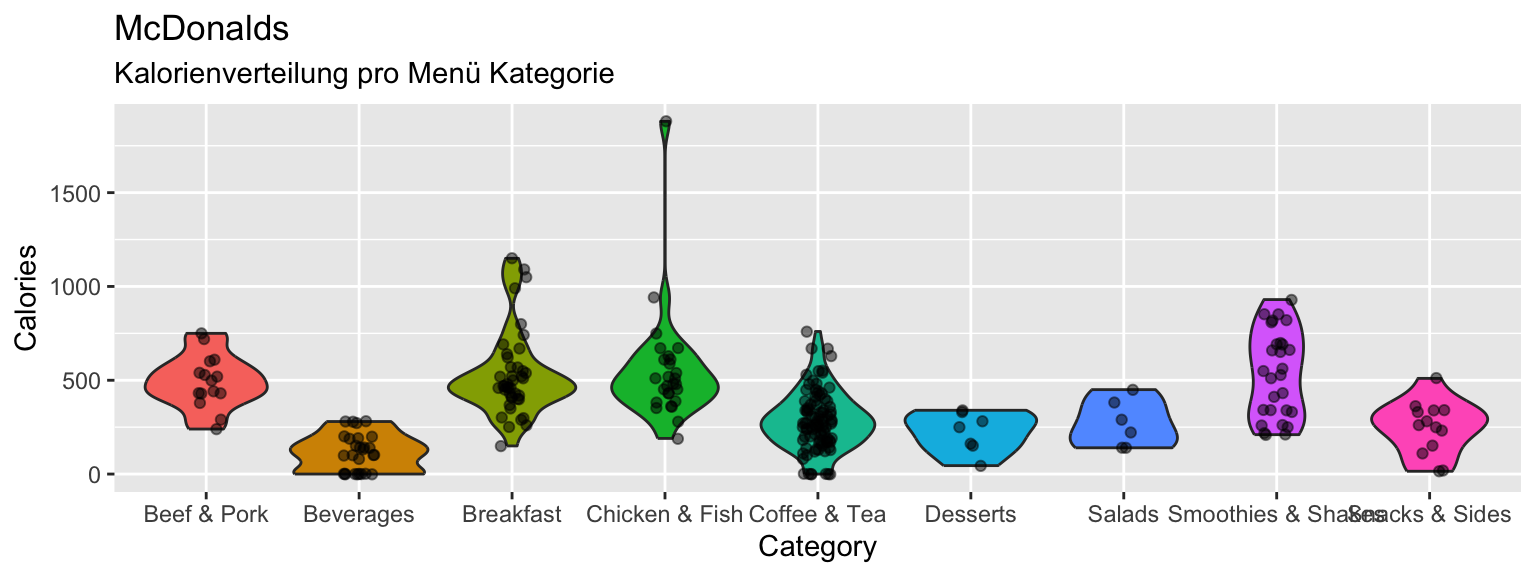
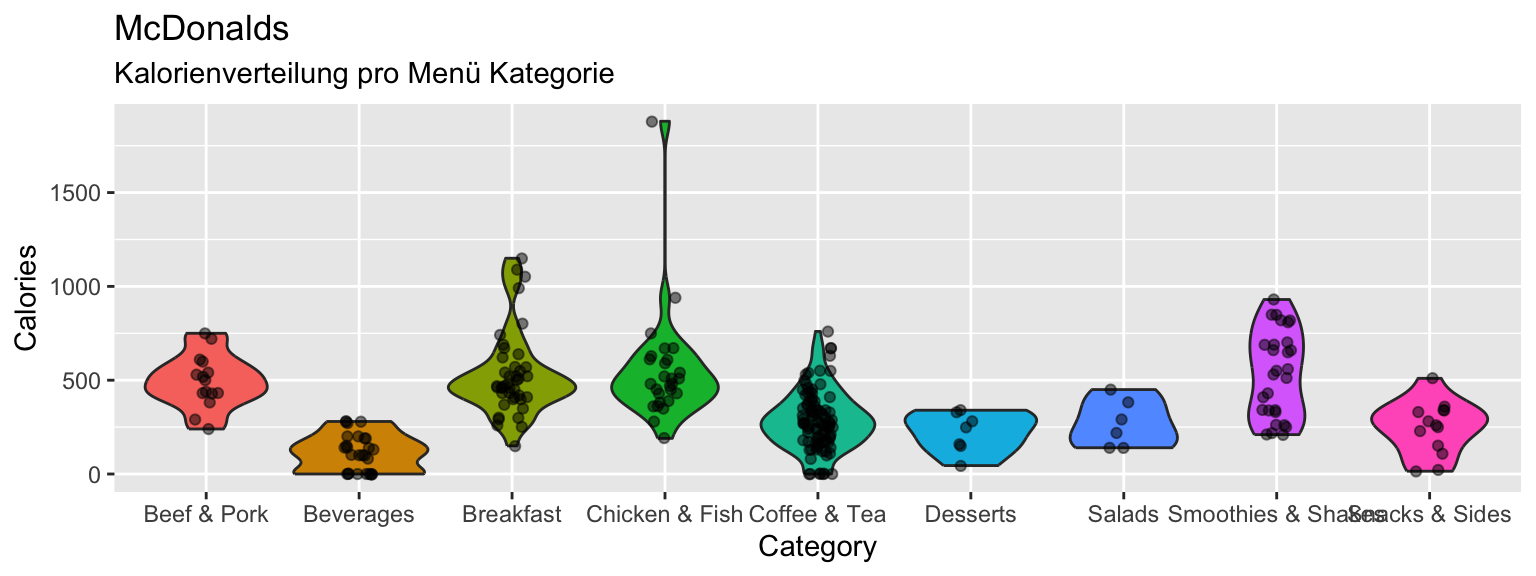
show solutions

diff --git a/_sessions/Plotting/Plotting_practical.html b/_sessions/Plotting/Plotting_practical.html
@@ -231,9 +231,13 @@ Ordner.</p></li>
 <div id="b---lade-den-datensatz" class="section level3">
 <h3>B - Lade den Datensatz</h3>
 <ol style="list-style-type: decimal">
-<li><p>Verwende die <code>read_csv()</code> Funktion um den Datensatz
+<li>Verwende die <code>read_csv()</code> Funktion um den Datensatz
 <code>mcdonalds</code> als Objekt <code>mcdonalds</code> einzulesen.
-Denke an den Trick mit den Anführungszeichen.</p></li>
+Denke an den Trick mit den Anführungszeichen.</li>
+</ol>
+<pre class="r"><code># Lese mcdonalds
+mcdonalds &lt;- read_csv(&#39;1_Data/mcdonalds.csv&#39;)</code></pre>
+<ol start="2" style="list-style-type: decimal">
 <li><p>Printe den Datensatz. Wurden alle Variablentypen korrekt
 identifiziert?</p></li>
 <li><p>Verwende <code>summary()</code> um einen weiteren Überblick über
@@ -250,6 +254,8 @@ zusammenbauen.</p>
 <code>mcdonalds</code> Datensatz zu starten.</li>
 </ol>
 <pre class="r"><code>ggplot(data = mcdonalds)</code></pre>
+<pre class="r"><code>ggplot(mcdonalds)</code></pre>
+<p><img src="Plotting_practical_files/figure-html/unnamed-chunk-5-1.png" width="672" style="display: block; margin: auto;" /></p>
 <ol start="2" style="list-style-type: decimal">
 <li>Verwende nun das <code>mapping</code>-Argument und die
 <code>aes()</code>-Helferfunltion um <code>Calories</code> der x-Achse
@@ -257,15 +263,24 @@ und <code>SaturatedFat</code> der y-Achse zuzuweisen.</li>
 </ol>
 <pre class="r"><code>ggplot(data = mcdonalds, 
        mapping = aes(x = XX, y = XX))</code></pre>
+<pre class="r"><code>ggplot(mcdonalds, aes(x = Calories, y = SaturatedFat))</code></pre>
+<p><img src="Plotting_practical_files/figure-html/unnamed-chunk-7-1.png" width="672" style="display: block; margin: auto;" /></p>
 <ol start="3" style="list-style-type: decimal">
-<li><p>Ergänze <code>geom_point()</code> mit <code>+</code> um Punkte zu
-plotten.</p></li>
-<li><p>Verwende das <code>col</code> Argument in <code>aes()</code> um
-die Farbe nach der Variable <code>Category</code> variieren zu
-lassen.</p></li>
+<li>Ergänze <code>geom_point()</code> mit <code>+</code> um Punkte zu
+plotten.</li>
+</ol>
+<pre class="r"><code>ggplot(mcdonalds, aes(x = Calories, y = SaturatedFat)) +
+  geom_point()</code></pre>
+<p><img src="Plotting_practical_files/figure-html/unnamed-chunk-8-1.png" width="672" style="display: block; margin: auto;" /></p>
+<ol start="4" style="list-style-type: decimal">
+<li>Verwende das <code>col</code> Argument in <code>aes()</code> um die
+Farbe nach der Variable <code>Category</code> variieren zu lassen.</li>
 </ol>
 <pre class="r"><code>ggplot(mcdonalds, aes(x = XX, y = XX, col = XX)) +
   geom_point() </code></pre>
+<pre class="r"><code>ggplot(mcdonalds, aes(x = Calories, y = SaturatedFat, col = Category)) +
+  geom_point()</code></pre>
+<p><img src="Plotting_practical_files/figure-html/unnamed-chunk-10-1.png" width="672" style="display: block; margin: auto;" /></p>
 <ol start="5" style="list-style-type: decimal">
 <li>Ergänze <code>+ geom_smooth()</code> um eine gefittete Linie zu
 ergänzen.</li>
@@ -273,6 +288,10 @@ ergänzen.</li>
 <pre class="r"><code>ggplot(mcdonalds, aes(x = XX, y = XX, col = XX)) +
   geom_point() + 
   geom_smooth()</code></pre>
+<pre class="r"><code>ggplot(mcdonalds, aes(x = Calories, y = SaturatedFat, col = Category)) +
+  geom_point() +
+  geom_smooth()</code></pre>
+<p><img src="Plotting_practical_files/figure-html/unnamed-chunk-12-1.png" width="672" style="display: block; margin: auto;" /></p>
 <ol start="6" style="list-style-type: decimal">
 <li>Oops! Hast du mehre Linien anstatt einer bekommen? Löse das Problem
 indem du die Farbe innerhalb von <code>geom_smooth()</code> auf
@@ -281,6 +300,10 @@ indem du die Farbe innerhalb von <code>geom_smooth()</code> auf
 <pre class="r"><code>ggplot(mcdonalds, aes(x = XX, y = XX, col = XX)) +
   geom_point() +
   geom_smooth(col = &quot;XX&quot;) </code></pre>
+<pre class="r"><code>ggplot(mcdonalds, aes(x = Calories, y = SaturatedFat, col = Category)) +
+  geom_point() +
+  geom_smooth(col = &quot;black&quot;)</code></pre>
+<p><img src="Plotting_practical_files/figure-html/unnamed-chunk-14-1.png" width="672" style="display: block; margin: auto;" /></p>
 <ol start="7" style="list-style-type: decimal">
 <li><p>R versteht eine grosse Menge von Farbworten. Lasse dir diese mit
 <code>colors()</code> (ohne Argumente) anzeigen. Alle aufgeführten
@@ -295,6 +318,13 @@ annotieren.</p></li>
   labs(title = &quot;XX&quot;,
        subtitle = &quot;XX&quot;,
        caption = &quot;XX&quot;)</code></pre>
+<pre class="r"><code>ggplot(mcdonalds, aes(x = Calories, y = SaturatedFat, col = Category)) +
+  geom_point() +
+  geom_smooth(col = &quot;black&quot;) +
+  labs(title = &quot;McDonalds Nährwerte&quot;,
+       subtitle = &quot;Jeder Punkt ist ein Menü-Item&quot;,
+       caption = &quot;Quelle: Kaggle.com&quot;)</code></pre>
+<p><img src="Plotting_practical_files/figure-html/unnamed-chunk-16-1.png" width="672" style="display: block; margin: auto;" /></p>
 <ol start="9" style="list-style-type: decimal">
 <li>Verwende <code>xlim()</code>, eine einfache Version von
 <code>scale_x_continuous()</code> (mehr dazu später), um die x-Achse auf
@@ -307,10 +337,27 @@ die Werte <code>0</code> und <code>1250</code> zu begrenzen.</li>
        subtitle = &quot;XX&quot;,
        caption = &quot;XX&quot;) +
   xlim(XX, XX)</code></pre>
+<pre class="r"><code>ggplot(mcdonalds, aes(x = Calories, y = SaturatedFat, col = Category)) +
+  geom_point() +
+  geom_smooth(col = &quot;black&quot;) +
+  labs(title = &quot;McDonalds Nährwerte&quot;,
+       subtitle = &quot;Jeder Punkt ist ein Menü-Item&quot;,
+       caption = &quot;Quelle: Kaggle.com&quot;) +
+  xlim(0, 1250)</code></pre>
+<p><img src="Plotting_practical_files/figure-html/unnamed-chunk-18-1.png" width="672" style="display: block; margin: auto;" /></p>
 <ol start="10" style="list-style-type: decimal">
 <li>Abschliessend verwende <code>theme_minimal()</code> um die Ästhetik
 des Plots anzupassen. Auch hierzu mehr später.</li>
 </ol>
+<pre class="r"><code>ggplot(mcdonalds, aes(x = Calories, y = SaturatedFat, col = Category)) +
+  geom_point() +
+  geom_smooth(col = &quot;black&quot;) +
+  labs(title = &quot;McDonalds Nährwerte&quot;,
+       subtitle = &quot;Jeder Punkt ist ein Menü-Item&quot;,
+       caption = &quot;Quelle: Kaggle.com&quot;) +
+  xlim(0, 1250) +
+  theme_minimal()</code></pre>
+<p><img src="Plotting_practical_files/figure-html/unnamed-chunk-19-1.png" width="672" style="display: block; margin: auto;" /></p>
 </div>
 <div id="d---geoms" class="section level3">
 <h3>D - <code>geom</code>s</h3>
@@ -325,6 +372,10 @@ Fall der Kalorien. Verwende für das Argument <code>fill</code> ebenfalls
 <pre class="r"><code>ggplot(data = mcdonalds, 
        aes(x = XX, y = XX, fill = XX)) +
   geom_violin()</code></pre>
+<pre class="r"><code>ggplot(data = mcdonalds, 
+       aes(x = Category, y = Calories, fill = Category)) +
+  geom_violin()</code></pre>
+<p><img src="Plotting_practical_files/figure-html/unnamed-chunk-21-1.png" width="768" style="display: block; margin: auto;" /></p>
 <ol start="2" style="list-style-type: decimal">
 <li>Ergänze mit <code>labs()</code> einen angemessenen Titel
 (<code>title</code>) und Untertitel (<code>subtitle</code>).</li>
@@ -333,6 +384,11 @@ Fall der Kalorien. Verwende für das Argument <code>fill</code> ebenfalls
   geom_violin() +
   labs(title = &quot;XX&quot;,
        subtitle = &quot;XX&quot;)</code></pre>
+<pre class="r"><code>ggplot(data = mcdonalds, aes(x = Category, y = Calories, fill = Category)) +
+  geom_violin() +
+  labs(title = &quot;McDonalds&quot;,
+       subtitle = &quot;Kalorienverteilung pro Menü Kategorie&quot;)</code></pre>
+<p><img src="Plotting_practical_files/figure-html/unnamed-chunk-23-1.png" width="768" style="display: block; margin: auto;" /></p>
 <ol start="3" style="list-style-type: decimal">
 <li>Ergänze <code>guides(fill = FALSE)</code>, so dass keine Legende
 gezeigt wird.</li>
@@ -341,12 +397,28 @@ gezeigt wird.</li>
   geom_violin() +
   labs(title = &quot;XX&quot;,
        subtitle = &quot;XX&quot;) + 
-  guides(fill = FALSE)</code></pre>
+  guides(fill = &quot;none&quot;)</code></pre>
+<pre class="r"><code>ggplot(data = mcdonalds, aes(x = Category, y = Calories, fill = Category)) +
+  geom_violin() +
+  labs(title = &quot;McDonalds&quot;,
+       subtitle = &quot;Kalorienverteilung pro Menü Kategorie&quot;) +
+  guides(fill = &quot;none&quot;)</code></pre>
+<p><img src="Plotting_practical_files/figure-html/unnamed-chunk-25-1.png" width="768" style="display: block; margin: auto;" /></p>
 <ol start="4" style="list-style-type: decimal">
-<li><p>Verwende <code>geom_jitter()</code> um Punkte über die Violinen
-zu plotten. Setze in der Funktion <code>width = 1</code> und
-<code>alpha = .5</code>.</p></li>
-<li><p>Probiere ein paar Sachen aus:</p></li>
+<li>Verwende <code>geom_jitter()</code> um Punkte über die Violinen zu
+plotten. Setze in der Funktion <code>width = 1</code> und
+<code>alpha = .5</code>.</li>
+</ol>
+<pre class="r"><code>ggplot(data = mcdonalds, 
+       aes(x = Category, y = Calories, fill = Category)) +
+  geom_violin() +
+  labs(title = &quot;McDonalds&quot;,
+       subtitle = &quot;Kalorienverteilung pro Menü Kategorie&quot;) +
+  guides(fill = FALSE) +
+  geom_jitter(width = .1, alpha = .5)</code></pre>
+<p><img src="Plotting_practical_files/figure-html/unnamed-chunk-26-1.png" width="768" style="display: block; margin: auto;" /></p>
+<ol start="5" style="list-style-type: decimal">
+<li>Probiere ein paar Sachen aus:</li>
 </ol>
 <ul>
 <li>Ändere die Werte für <code>width</code> oder <code>alpha</code> in
@@ -389,7 +461,23 @@ und <code>hjust</code> auf <code>"left"</code> setzt.</p></li>
 <code>mcdonalds</code> Datensatzes zu, nämlich
 <code>data = mcdonalds %&gt;% filter(Calories &gt; 1100)</code>. Schau
 was passiert.</p></li>
-<li><p>Probiere ein paar Sachen aus:</p></li>
+</ol>
+<pre class="r"><code>ggplot(mcdonalds, aes(x = Sugars, 
+                      y = Calories, 
+                      col = Category, 
+                      label = Item)) +
+  geom_point() +
+  geom_text(data = mcdonalds %&gt;% 
+            filter(Calories &gt; 1100),
+            col = &quot;black&quot;, 
+            check_overlap = TRUE, 
+            hjust = &quot;left&quot;) +
+  xlim(0, 150) +
+  ylim(0, 2000) +
+  theme_minimal() +
+  labs(title = &quot;Ergänze Labels zu einem Plot mit geom_text()&quot;)</code></pre>
+<ol start="6" style="list-style-type: decimal">
+<li>Probiere ein paar Sachen aus:</li>
 </ol>
 <ul>
 <li><p>Verwende das <code>size</code> Argument in <code>aes()</code>, so
@@ -413,6 +501,11 @@ folgenden Code um die <code>Calories</code> (y-Achse) gegen
                fun.y = &quot;mean&quot;) +
   labs(title = &quot;XX&quot;,
        subtitle = &quot;XX&quot;)</code></pre>
+<pre class="r"><code>ggplot(mcdonalds, aes(x = Category, y = Calories)) +
+  stat_summary(geom = &quot;bar&quot;, 
+               fun.y = &quot;mean&quot;) +
+  labs(title = &quot;Calories gegen McDonalds Menu Kategorie&quot;,
+       subtitle = &quot;Balken repräsentieren Mittelwwerte&quot;)</code></pre>
 <p><img src="Plotting_practical_files/figure-html/unnamed-chunk-31-1.png" width="960" style="display: block; margin: auto;" /></p>
 <ol start="2" style="list-style-type: decimal">
 <li>Probiere ein paar Sachen aus:</li>
@@ -423,6 +516,15 @@ folgenden Code um die <code>Calories</code> (y-Achse) gegen
 <li>Ergänze Punkte über den Balken mit <code>geom_point()</code>,
 <code>geom_count()</code>, oder <code>geom_jitter()</code>.</li>
 </ul>
+<pre class="r"><code>ggplot(mcdonalds, aes(x = Category, 
+                      y = Calories, 
+                      col = Category)) +
+  stat_summary(geom = &quot;bar&quot;, 
+               fun.y = &quot;median&quot;) +
+  geom_jitter() +
+  labs(title = &quot;Calories gegen McDonalds Menu Kategorie&quot;,
+       subtitle = &quot;Balken repräsentieren Mittelwwerte&quot;)</code></pre>
+<p><img src="Plotting_practical_files/figure-html/unnamed-chunk-32-1.png" width="960" style="display: block; margin: auto;" /></p>
 </div>
 <div id="x---challenges" class="section level3">
 <h3>X - Challenges</h3>
@@ -504,6 +606,9 @@ ggplot(data = mpg,
 </div>
 <div id="datensätze" class="section level2">
 <h2>Datensätze</h2>
+<pre class="r"><code>library(tidyverse)
+library(ggthemes)
+mcdonalds &lt;- read_csv(&quot;1_Data/mcdonalds.csv&quot;)</code></pre>
 <table>
 <colgroup>
 <col width="27%" />
